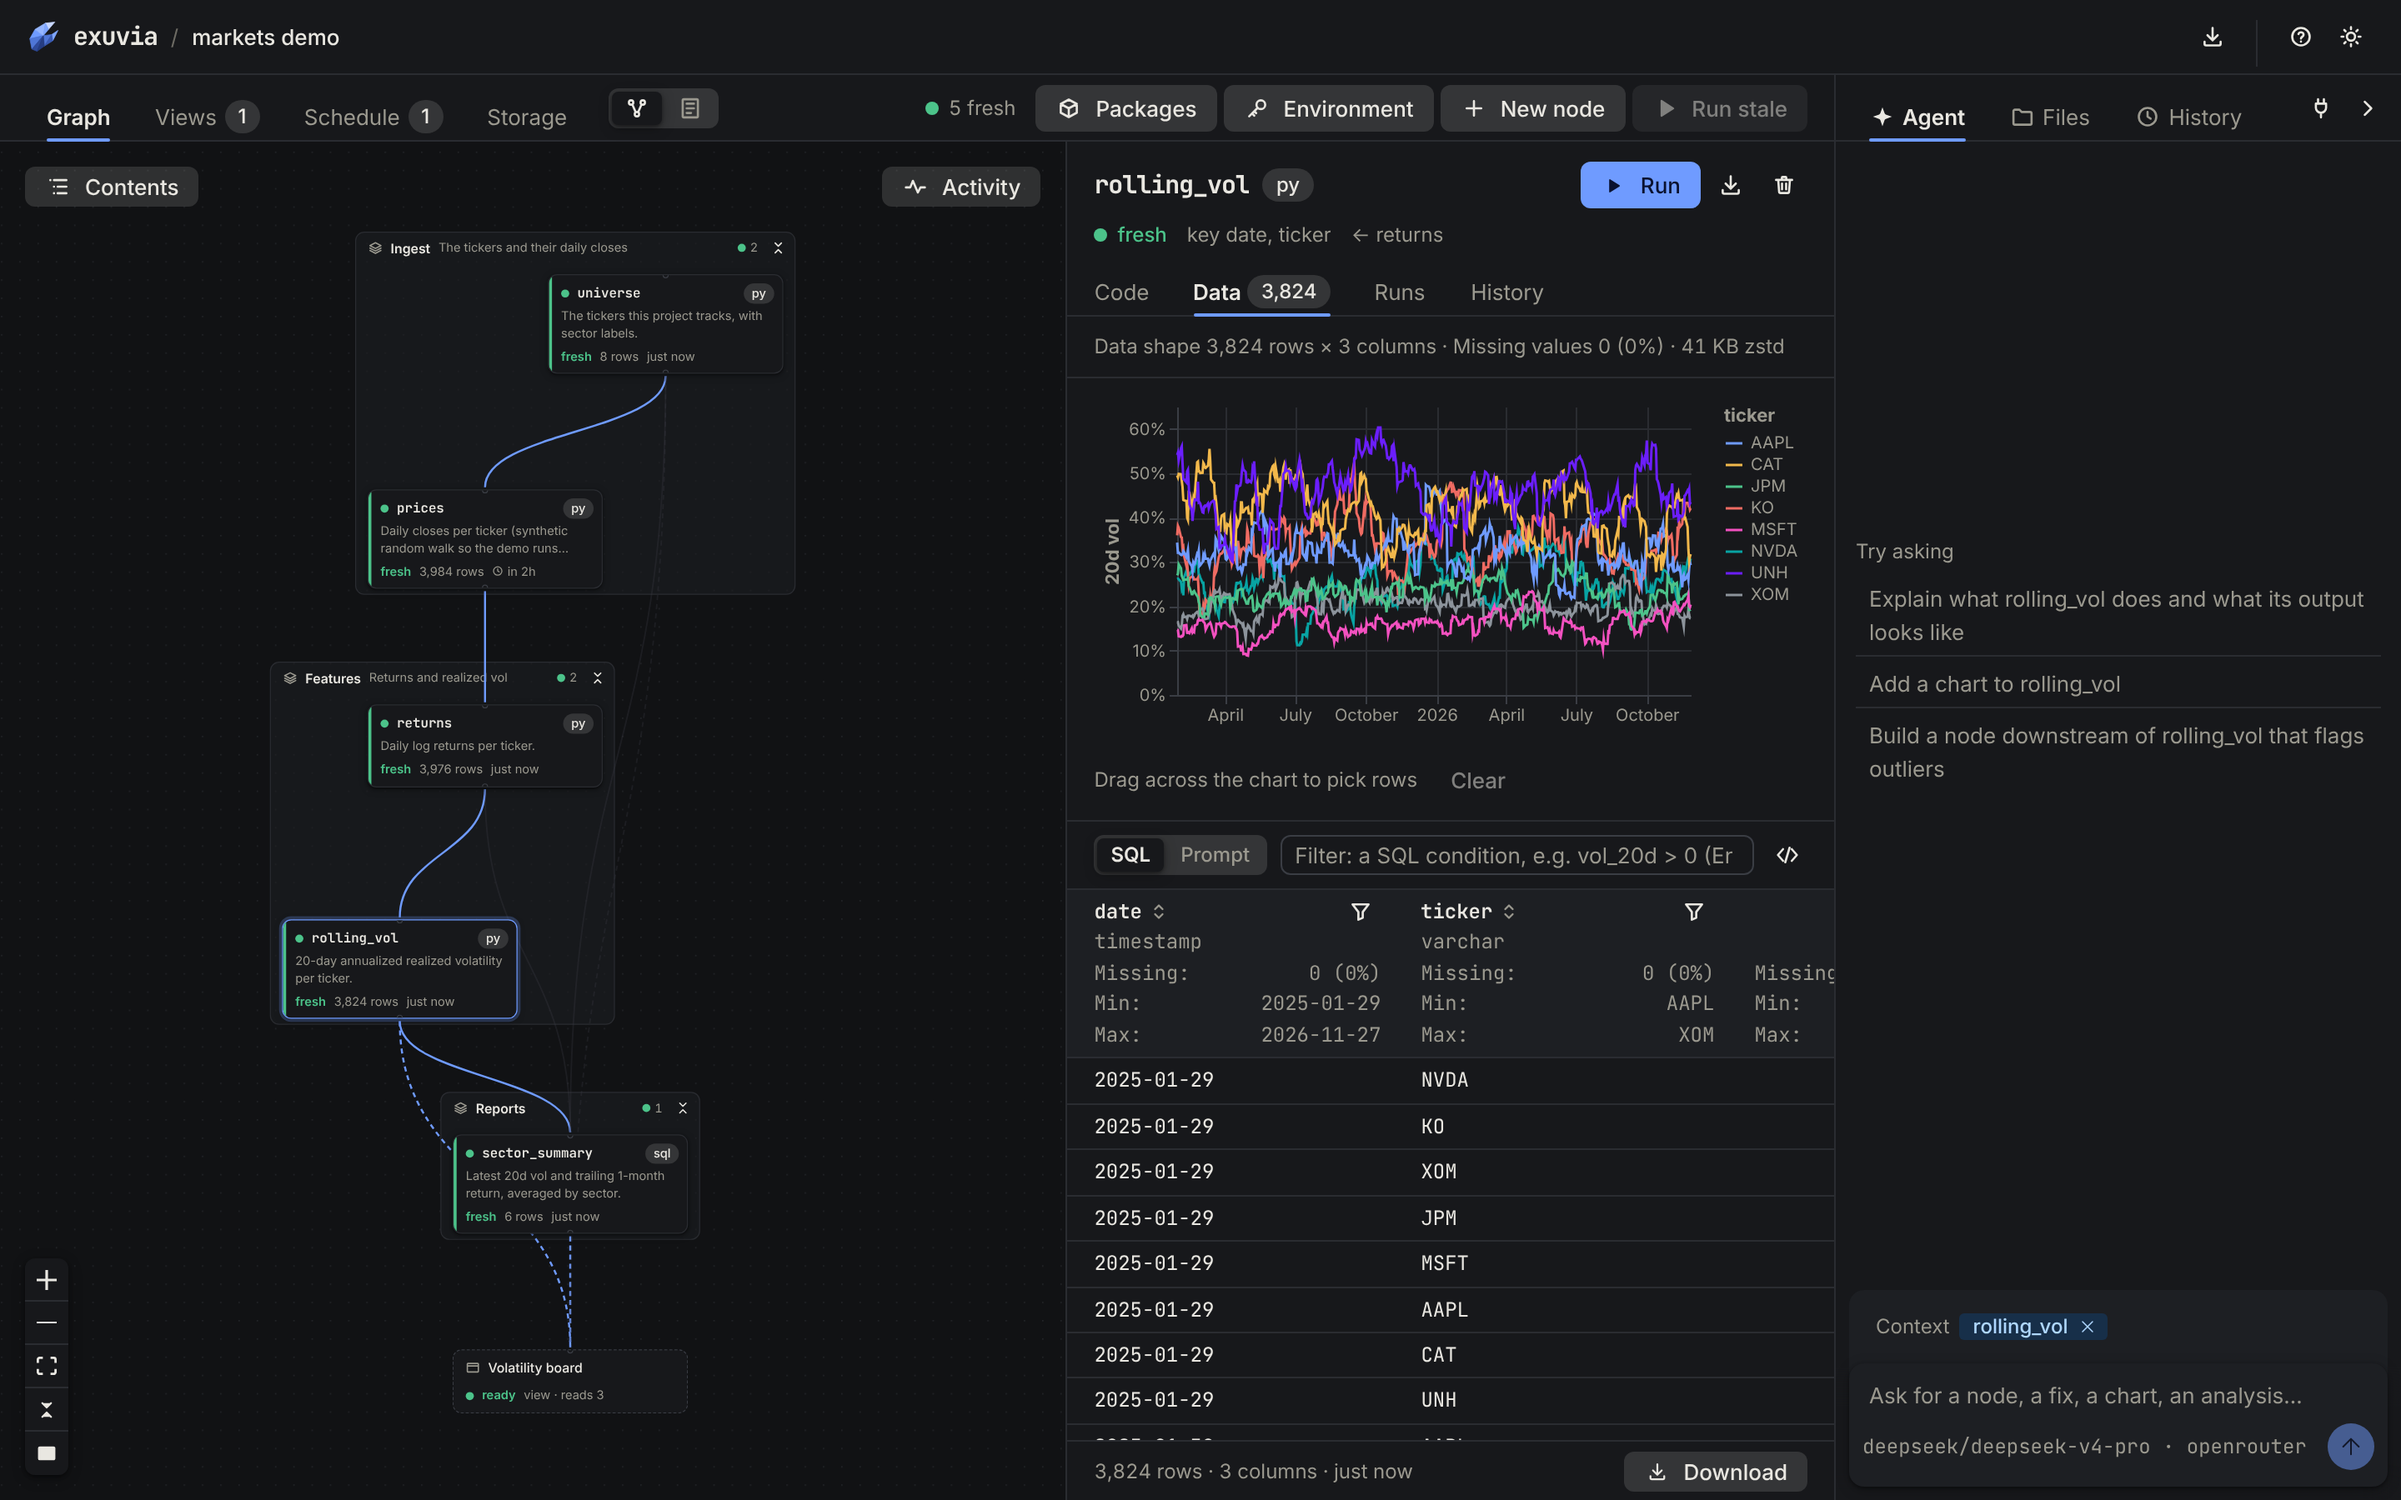
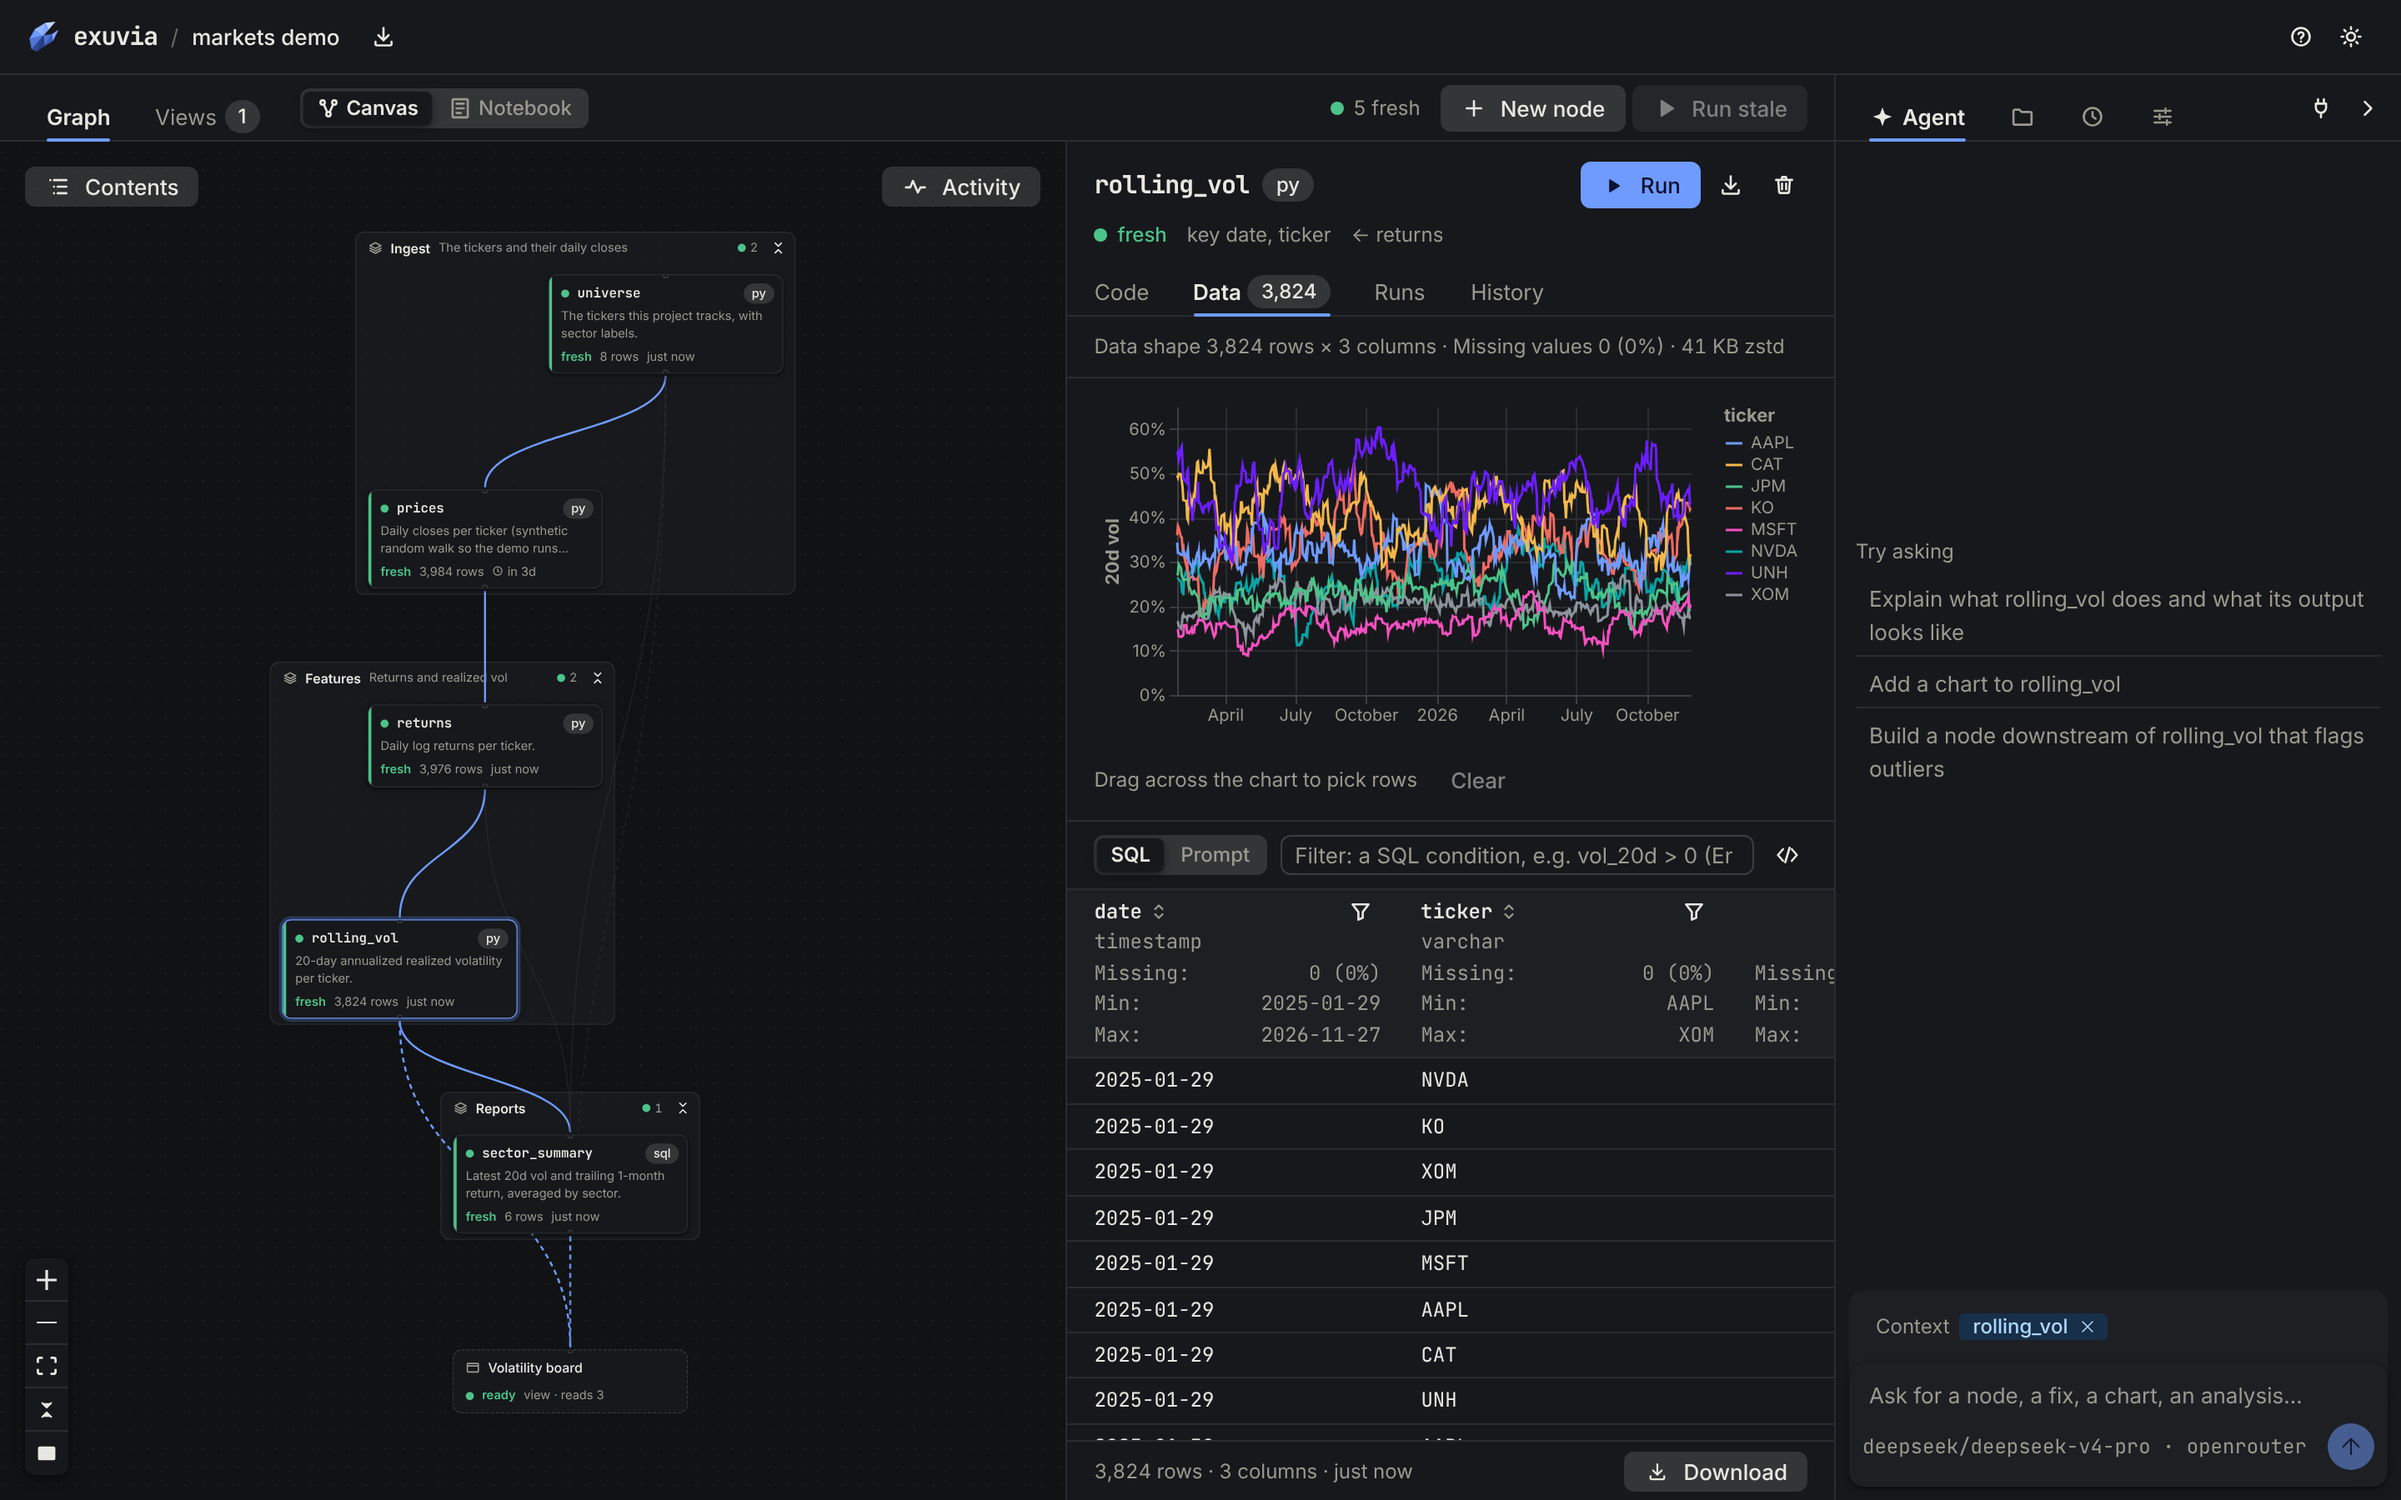
Site: recapture every screenshot, and fix capture.mjs on main
The shots in site/src/assets/shots/ were taken before #219 moved Packages,
Environment, Schedule and Storage into the side panel's Settings tab and
Share and download next to the project's name, so every workbench shot
showed the old bars. All 16 are taken again from current main (app, hub
and tutorial modes).

capture.mjs stopped after data.png: the History tab's compare picker shows
"vs previous" twice (its button and the picked item), so it waits for the
first. `hub` mode now runs all three projects, not only Markets, so their
data reads and queries answer.

The notebook shot needed no workaround: the chart now follows its cell's
width when Contents opens (#237).

ui/AGENTS.md says to recapture the shots when the workbench's chrome
changes, since nothing checks them.

Fixes #236

Claude-Session: https://claude.ai/code/session_0119ZMbr7cjcShX1fRvZoQm3

Changed region(s): [[0.4062, 0.0311, 0.5938, 0.0933], [0.125, 0.0311, 0.3125, 0.0933], [0.8438, 0.0622, 0.9375, 0.0933]]

diff --git a/ui/AGENTS.md b/ui/AGENTS.md
@@ -115,6 +115,12 @@ bun run doctor                     # Astryx's own checks of the setup and the co
 Look at it in both colour modes and at a narrow width (the workbench stacks
 under 1100px, and its bars lose their words under 900px).
 
+A change to what the workbench shows on every screen (its bars, the side
+panel's tabs, where a control lives) makes the website's screenshots wrong,
+and nothing checks them: recapture them in the same PR with
+`site/tools/capture.mjs` (its header says how: modes `app`, `hub` and
+`tutorial`, each against a scratch copy) and look at each one.
+
 ## Astryx's own guide
 
 Written by `bun run astryx init`; it rewrites this block on an upgrade.
